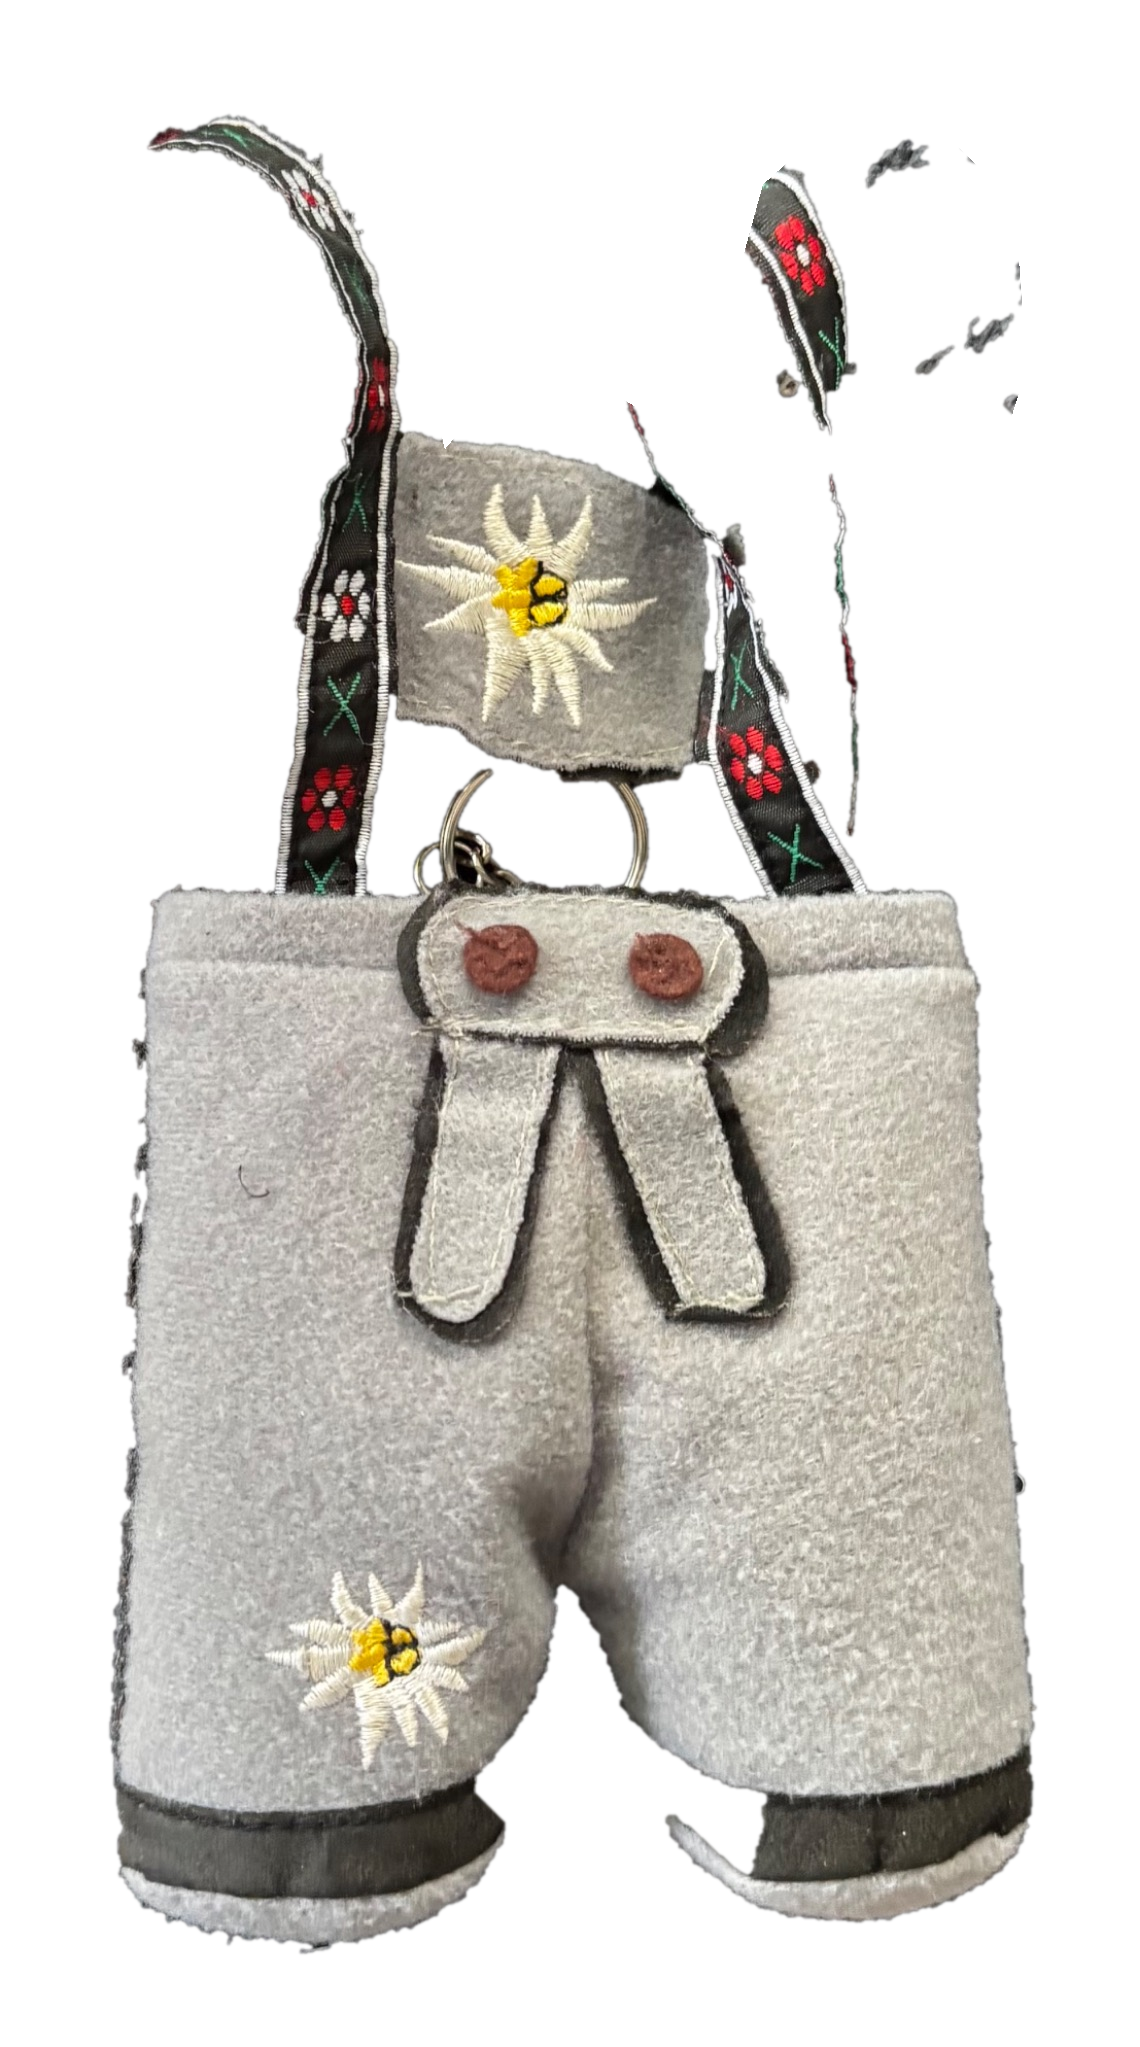
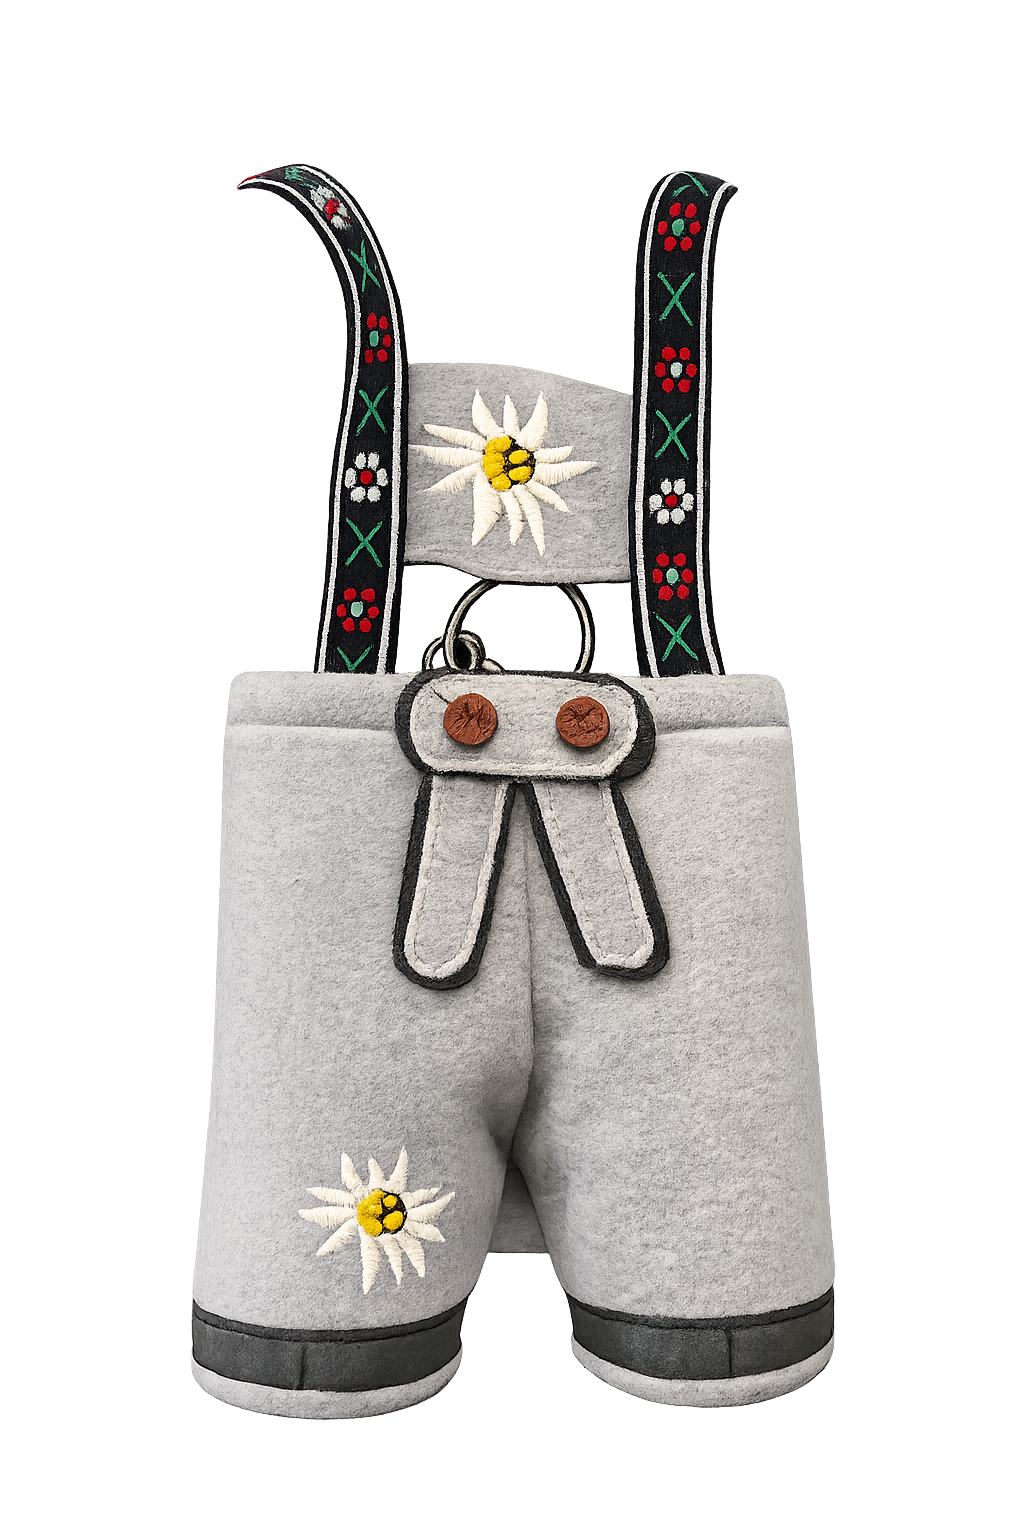
Replace production Lederhosen cut-out asset
BOOTS Website v2.7.1 – Yodel Test.3

• Replaced the Yodelling Lederhosen production cut-out with the new master transparent PNG.
• Regenerated the web-optimised cut-out from the new master.
• Preserved all sizing, positioning, animation and interaction.
• Updated production asset documentation and project changelog.

diff --git a/index.html b/index.html
@@ -1338,7 +1338,7 @@
     }
 
 
-    /* v2.7.1-yodel-test.2: refined Yodelling Lederhosen preview */
+    /* v2.7.1-yodel-test.3: replacement Yodelling Lederhosen production asset */
     .liquid-yodel-tile {
       flex: 1.65 1 560px;
       min-width: min(100%, 560px);

diff --git a/README.md b/README.md
@@ -1,5 +1,13 @@
 # BOOTS — Live Music Duo Website
 
+## Version 2.7.1-yodel-test.3 — Yodelling Lederhosen Production Asset Replacement
+
+**Feature branch only:** `feature/yodelling-lederhosen`. Do not deploy or merge into `main` until Mike and Jason approve the preview.
+
+- Replaced the existing Yodelling Lederhosen cut-out with the newly supplied transparent production PNG.
+- Regenerated the web-optimised PNG directly from the new master while preserving its transparency, proportions and appearance.
+- Kept all approved v2.7.1-yodel-test.2 positioning, sizing, spacing, caption, vibration graphics, arrow, animation timing, audio behaviour, accessibility and responsive layout unchanged.
+
 ## Version 2.7.1-yodel-test.2 — Yodelling Lederhosen Layout Refinement
 
 **Feature branch only:** `feature/yodelling-lederhosen`. Do not deploy or merge into `main` until Mike and Jason approve the preview.

diff --git a/assets/yodelling-lederhosen/README.md b/assets/yodelling-lederhosen/README.md
@@ -1,6 +1,6 @@
 # BOOTS Yodelling Lederhosen Production Assets
 
-Version: 1.0 (for BOOTS Website v2.7.0-yodel-test.1)
+Version: 1.1 (for BOOTS Website v2.7.1-yodel-test.3)
 
 ## Locked production rule
 
@@ -24,3 +24,9 @@ BOOTS gold: `#C3A25C`.
 ## Website implementation
 
 The live feature uses separate DOM elements rather than a flattened composite. The caption is editable HTML text for accessibility and responsive layout. The PNG, vibration SVGs and arrow SVG can therefore be moved and resized independently without altering the photograph.
+
+## v1.1 production asset update
+
+- `yodelling-lederhosen-cutout.png` is the newly supplied definitive transparent production master.
+- `yodelling-lederhosen-cutout-web.png` is regenerated directly from that master with identical dimensions and transparency.
+- Do not redraw, stretch, squash, crop or otherwise alter the master image.
